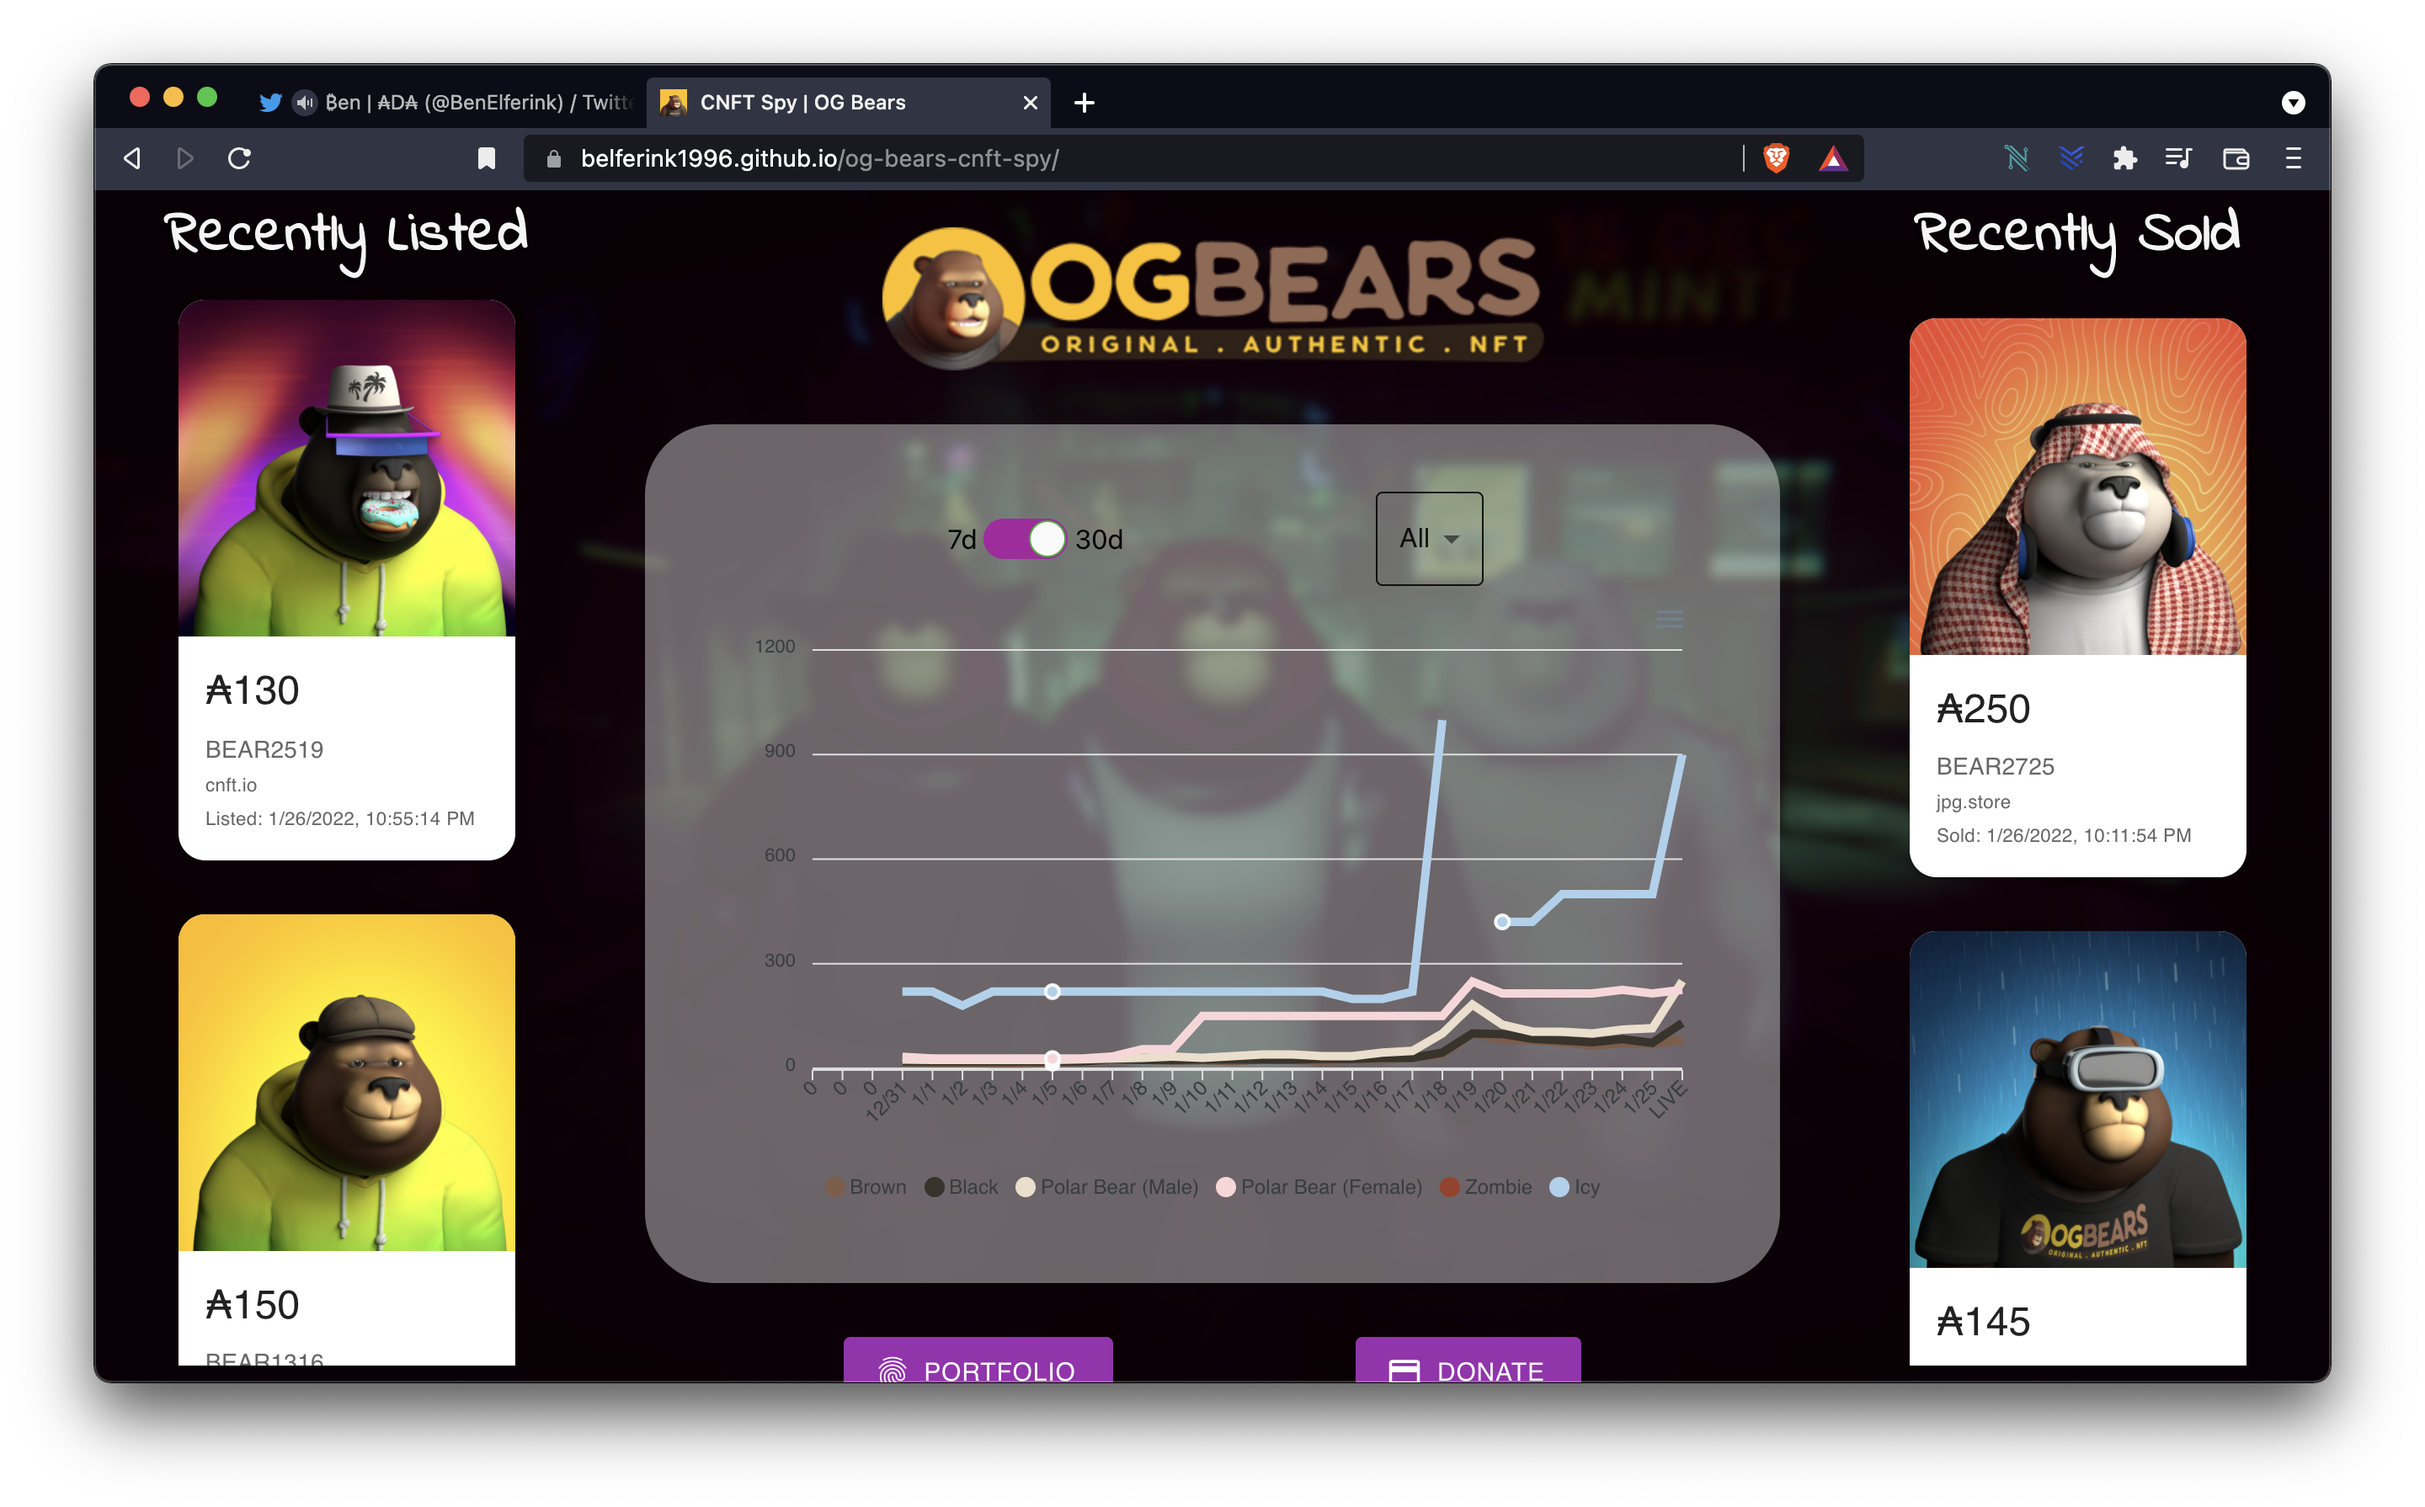
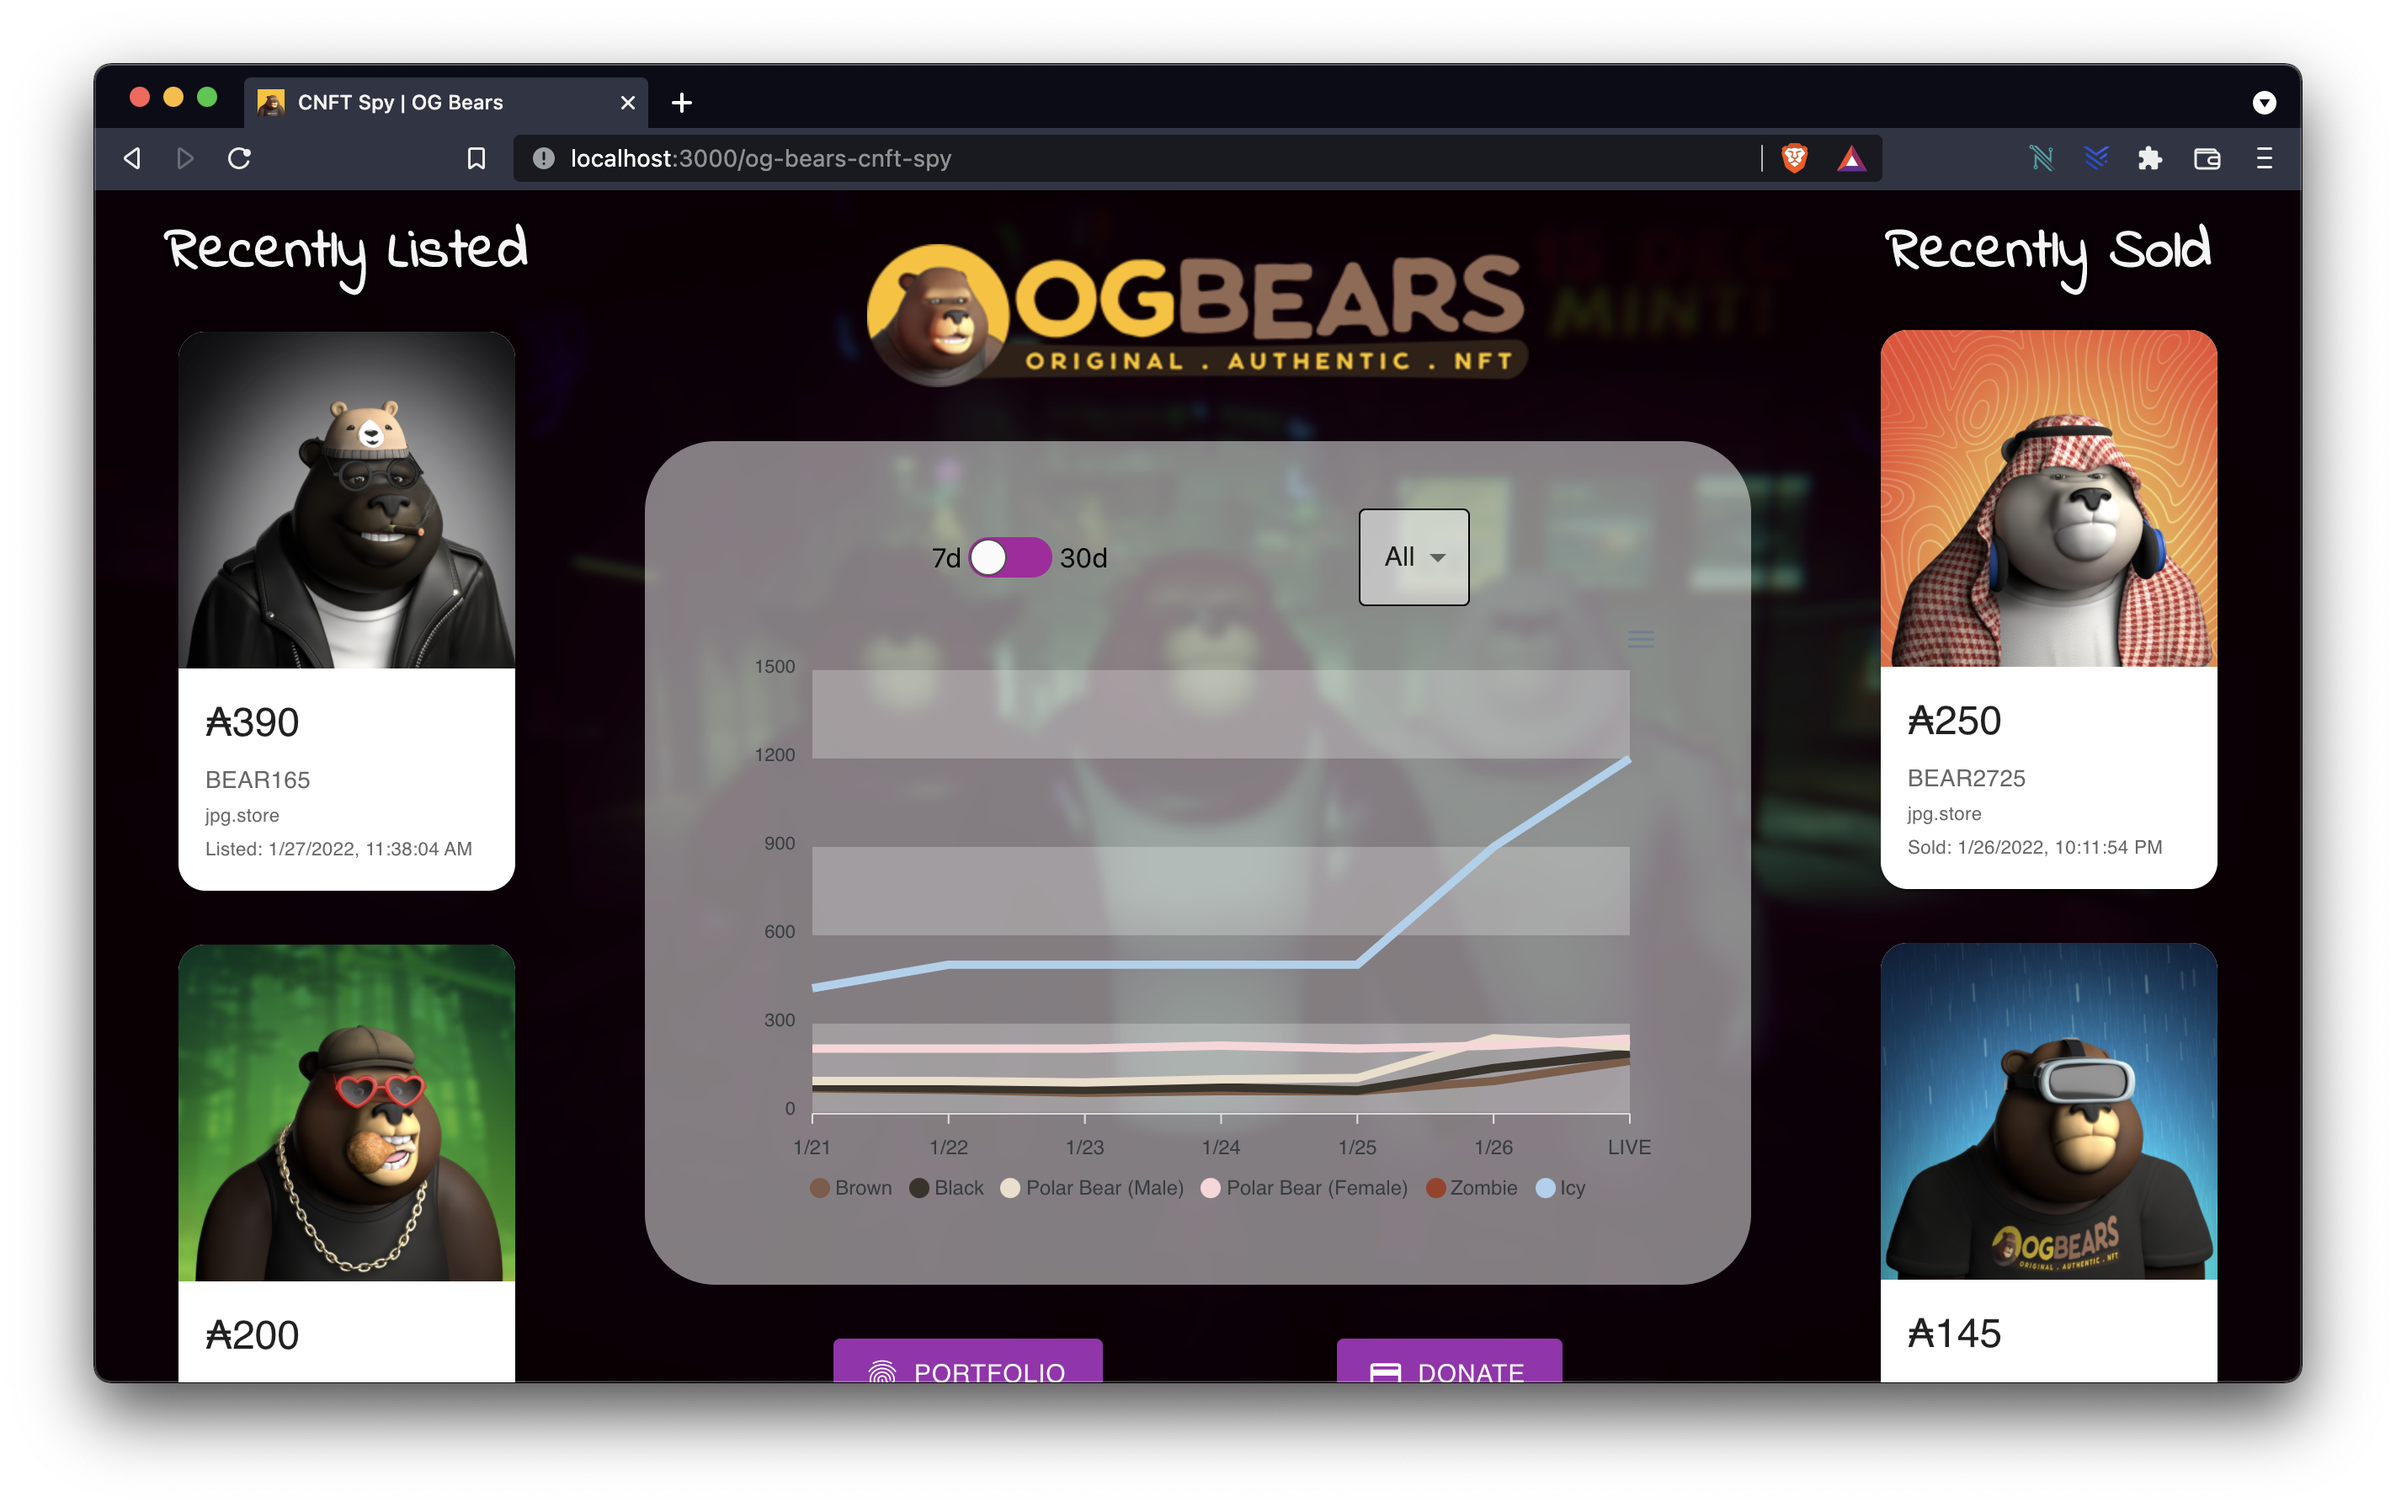
feat: UI tweaks and edits (slightly)

diff --git a/src/components/Portfolio.js b/src/components/Portfolio.js
@@ -1,9 +1,15 @@
-import styles from '../styles/Charts.module.css'
 import { Fragment, useEffect, useState } from 'react'
 import { useScreenSize } from '../contexts/ScreenSizeContext'
 import { useData } from '../contexts/DataContext'
 import { useLocalStorage } from '../hooks'
-import { formatNumber, getImageFromIPFS, getChartOptions, getPortfolioSeries, toHex } from '../functions'
+import {
+  formatNumber,
+  getImageFromIPFS,
+  getChartOptions,
+  getPortfolioSeries,
+  toHex,
+  generateChartWidth,
+} from '../functions'
 import { Button, Drawer, IconButton, TextField, Typography } from '@mui/material'
 import {
   Fingerprint,
@@ -20,10 +26,10 @@ import Loading from './Loading'
 import ListItem from './ListItem'
 import ChangeGreenRed from './ChangeGreenRed'
 import addImage from '../assets/images/add.png'
-import { ADA_SYMBOL, BEARS_POLICY_ID, GREEN, RED, OPACITY_WHITE } from '../constants'
+import { ADA_SYMBOL, BEARS_POLICY_ID, GREEN, RED } from '../constants'
 
 function Portfolio() {
-  const { isMobile } = useScreenSize()
+  const { isMobile, isDesktop } = useScreenSize()
   const { blockfrostData, floorData } = useData()
 
   const [assets, setAssets] = useLocalStorage('ogb-assets', [])
@@ -126,14 +132,10 @@ function Portfolio() {
     return totalBalance
   })()
 
-  const generateChartWidth = (width = window.innerWidth) => {
-    const x = width - (width < 768 ? 50 : 420)
-    return x > 1700 ? 1700 : x
-  }
-  const [chartWidth, setChartWidth] = useState(generateChartWidth())
+  const [chartWidth, setChartWidth] = useState(generateChartWidth(window.innerWidth, isDesktop))
 
   useEffect(() => {
-    const handler = () => setChartWidth(generateChartWidth())
+    const handler = () => setChartWidth(generateChartWidth(window.innerWidth, isDesktop))
     window.addEventListener('resize', handler)
     return () => window.removeEventListener('resize', handler)
   }, []) // eslint-disable-line
@@ -158,7 +160,7 @@ function Portfolio() {
             className='flex-col'
             style={{
               padding: '0.5rem 1rem',
-              backgroundColor: OPACITY_WHITE,
+              backgroundColor: 'var(--opacity-white)',
               borderRadius: '0.5rem',
             }}>
             <p style={{ marginBottom: '11px' }}>Total Payed</p>
@@ -173,7 +175,7 @@ function Portfolio() {
             className='flex-col'
             style={{
               padding: '0.5rem 1rem',
-              backgroundColor: OPACITY_WHITE,
+              backgroundColor: 'var(--opacity-white)',
               borderRadius: '0.5rem',
             }}>
             <p style={{ marginBottom: '11px' }}>Current Balance</p>
@@ -200,7 +202,7 @@ function Portfolio() {
           </div>
         </div>
 
-        <section className={styles.chartContainer}>
+        <section className='chart-container'>
           <div className='flex-row' style={{ width: '100%', justifyContent: 'space-evenly' }}>
             <Toggle
               name='chart-days'
@@ -222,6 +224,9 @@ function Portfolio() {
                 'var(--yellow)',
                 chartSeries[1].data[0] < chartSeries[1].data[chartSeries[1].data.length - 1] ? GREEN : RED,
               ],
+              grid: {
+                show: false,
+              },
             }}
             series={chartSeries}
           />
@@ -242,7 +247,7 @@ function Portfolio() {
           </Typography>
           <div
             style={{
-              width: isMobile ? 'calc(100vw - 2rem)' : `${generateChartWidth(window.innerWidth) + 100}px`,
+              width: isMobile ? 'calc(100vw - 2rem)' : `${generateChartWidth(window.innerWidth, isDesktop) + 100}px`,
               height: 'fit-content',
               display: 'flex',
               flexFlow: 'row wrap',
@@ -254,7 +259,7 @@ function Portfolio() {
             ) : (
               <ListItem
                 htmlToolTipContent={<div>add new asset</div>}
-                style={{ margin: '1rem', backgroundColor: OPACITY_WHITE }}
+                style={{ margin: '1rem', backgroundColor: 'var(--opacity-white)' }}
                 flipToSide={isMobile}
                 price='DD NEW'
                 name='Click to add new asset'
@@ -280,7 +285,7 @@ function Portfolio() {
                     <CloseRounded />
                   </IconButton>
                   <ListItem
-                    style={{ margin: '1rem', backgroundColor: OPACITY_WHITE }}
+                    style={{ margin: '1rem', backgroundColor: 'var(--opacity-white)' }}
                     flipToSide={isMobile}
                     name={name}
                     price={formatNumber(payed)}

diff --git a/src/components/Charts.js b/src/components/Charts.js
@@ -1,9 +1,8 @@
-import styles from '../styles/Charts.module.css'
 import { useEffect, useState } from 'react'
 import { useScreenSize } from '../contexts/ScreenSizeContext'
 import { useData } from '../contexts/DataContext'
 import { useLocalStorage } from '../hooks'
-import { getChartOptions, getChartSeries } from '../functions'
+import { generateChartWidth, getChartOptions, getChartSeries } from '../functions'
 import { MenuItem, Select } from '@mui/material'
 import Chart from 'react-apexcharts'
 import Toggle from './Toggle'
@@ -12,15 +11,14 @@ import { BLACK, BROWN, POLAR_MALE, POLAR_FEMALE, ZOMBIE, ICY } from '../constant
 function Charts() {
   const { isDesktop } = useScreenSize()
   const { floorData, bearsData } = useData()
-  
-  const generateChartWidth = (width = window.innerWidth) => width - (isDesktop ? 750 : 70)
-  const [chartWidth, setChartWidth] = useState(generateChartWidth())
-  
+
   const [showThirtyDay, setShowThirtyDay] = useState(false)
   const [selectedType, setSelectedType] = useLocalStorage('ogb-selected-type', 'All')
 
+  const [chartWidth, setChartWidth] = useState(generateChartWidth(window.innerWidth, isDesktop))
+
   useEffect(() => {
-    const handler = () => setChartWidth(generateChartWidth())
+    const handler = () => setChartWidth(generateChartWidth(window.innerWidth, isDesktop))
     window.addEventListener('resize', handler)
     return () => window.removeEventListener('resize', handler)
   }, []) // eslint-disable-line
@@ -33,8 +31,8 @@ function Charts() {
   )
 
   return (
-    <section className={styles.chartContainer}>
-      <div className={styles.controls}>
+    <section className='chart-container'>
+      <div className='floor-chart-controls'>
         <Toggle
           name='chart-days'
           labelLeft='7d'
@@ -76,6 +74,12 @@ function Charts() {
               : selectedType === 'Icy'
               ? [ICY]
               : [],
+          grid: {
+            show: false,
+            row: {
+              colors: ['var(--opacity-white)', 'transparent'],
+            },
+          },
         }}
         series={chartSeries}
       />

diff --git a/src/styles/index.css b/src/styles/index.css
@@ -1,5 +1,7 @@
 :root {
+  --opacity-white: rgba(250, 250, 250, 0.5);
   --yellow: #ffc008;
+  --purple: #ab199f;
 }
 
 @font-face {
@@ -76,16 +78,92 @@ code {
   justify-content: space-evenly;
 }
 
+.chart-container {
+  max-width: 100vw;
+  width: -webkit-fit-content;
+  width: -moz-fit-content;
+  width: fit-content;
+  padding: 1rem;
+  background-color: var(--opacity-white);
+  border-radius: 42px;
+  display: flex;
+  flex-direction: column;
+  align-items: center;
+}
+
+.floor-chart-controls {
+  max-width: 550px;
+  width: 100%;
+  display: flex;
+  flex-flow: row wrap;
+  align-items: center;
+  justify-content: space-evenly;
+}
+
+.floor-chart-controls > * {
+  margin: 0.5rem 1rem;
+  font-size: 0.75rem;
+}
+
+.listings-container {
+  display: flex;
+  flex-direction: column;
+  align-items: center;
+}
+
+.listings {
+  width: 90vw;
+  display: flex;
+  flex-direction: row;
+  align-items: center;
+}
+
+.icons-wrapper {
+  display: flex;
+  align-items: center;
+}
+
+.icon-item {
+  margin: 0 7px;
+  flex: 0.25;
+  display: flex;
+  align-items: center;
+  justify-content: space-between;
+}
+
 .react-toggle .react-toggle-track {
-  background-color: #ab199f !important;
+  background-color: var(--purple) !important;
 }
 
 .react-toggle--checked .react-toggle-track {
-  background-color: #ab199f !important;
+  background-color: var(--purple) !important;
+}
+
+.MuiSelect-select {
+  border: 1px solid black !important;
+  background-color: var(--opacity-white) !important;
 }
 
 @media only screen and (min-width: 1024px) {
   .App {
     flex-direction: row;
+  }
+
+  .chart-container {
+    padding: 2rem 3rem;
+  }
+
+  .floor-chart-controls > * {
+    margin: 0.5rem 2rem;
+    font-size: unset;
+  }
+
+  .listings-container {
+    max-height: 107vh;
+  }
+
+  .listings {
+    width: 300px;
+    flex-direction: column;
   }
 }

diff --git a/src/components/Listings.js b/src/components/Listings.js
@@ -1,4 +1,3 @@
-import styles from '../styles/Listings.module.css'
 import { useEffect, useState } from 'react'
 import { useData } from '../contexts/DataContext'
 import { getImageFromIPFS, toHex } from '../functions'
@@ -50,7 +49,7 @@ function Listings({ title = 'Listings', options = {} }) {
   }
 
   useEffect(() => {
-    (async () => {
+    ;(async () => {
       try {
         const cnftItems = (options.sold ? await getCnftSold() : await getCnftListed()).map((item) =>
           getCnftItem(item),
@@ -79,7 +78,7 @@ function Listings({ title = 'Listings', options = {} }) {
   }, []) // eslint-disable-line
 
   return (
-    <div className={styles.listingsContainer}>
+    <div className='listings-container'>
       <Typography
         variant='h4'
         component='div'
@@ -93,7 +92,7 @@ function Listings({ title = 'Listings', options = {} }) {
         {title}
       </Typography>
 
-      <div className={`scroll ${styles.list}`}>
+      <div className='scroll listings'>
         {data.length ? (
           data.map(({ assetId, name, price, imageUrl, itemUrl, store, date }) => (
             <ListItem

diff --git a/src/components/ListItem.js b/src/components/ListItem.js
@@ -1,7 +1,6 @@
 import React, { Fragment } from 'react'
 import { Card, CardActionArea, CardContent, CardMedia, Typography } from '@mui/material'
 import { ADA_SYMBOL } from '../constants'
-import styles from '../styles/Listings.module.css'
 
 function ListItem({
   style = {},
@@ -49,9 +48,9 @@ function ListItem({
             {iconArray && (
               <Fragment>
                 <br />
-                <span className={styles.iconsWrapper}>
+                <span className='icons-wrapper'>
                   {iconArray.map(({ icon: Icon, txt }, i) => (
-                    <span className={styles.iconItem} key={`${i}-${txt}`}>
+                    <span className='icon-item' key={`${i}-${txt}`}>
                       <Icon fontSize={iconSize} />
                       &nbsp;{txt}
                     </span>

diff --git a/src/functions/index.js b/src/functions/index.js
@@ -1,6 +1,7 @@
 import toHex from './toHex'
 import getImageFromIPFS from './getImageFromIPFS'
 import formatNumber from './formatNumber'
+import generateChartWidth from './chart/generateChartWidth'
 import getChartOptions from './chart/getChartOptions'
 import getChartSeries from './chart/getChartSeries'
 import getPortfolioSeries from './chart/getPortfolioSeries'
@@ -9,6 +10,7 @@ export {
   toHex,
   getImageFromIPFS,
   formatNumber,
+  generateChartWidth,
   getChartOptions,
   getChartSeries,
   getPortfolioSeries,

diff --git a/src/functions/chart/generateChartWidth.js b/src/functions/chart/generateChartWidth.js
@@ -1,0 +1,11 @@
+function generateChartWidth(windowWidth, isDesktop) {
+  const width = windowWidth - (isDesktop ? 750 : 70)
+
+  if (isDesktop && width >= 700) {
+    return 700
+  }
+
+  return width
+}
+
+export default generateChartWidth

diff --git a/public/index.html b/public/index.html
@@ -27,7 +27,6 @@
   </head>
   <style>
     body {
-      background-color: var(--yellow);
       background: url('/og-bears-cnft-spy/assets/bg.png') no-repeat center;
       background-size: cover;
     }

diff --git a/src/constants/colors.js b/src/constants/colors.js
@@ -1,5 +1,3 @@
-export const OPACITY_WHITE = 'rgba(250, 250, 250, 0.4)'
-
 export const GREEN = 'rgb(0, 227, 150)'
 export const RED = 'rgb(233, 30, 99)'
 
